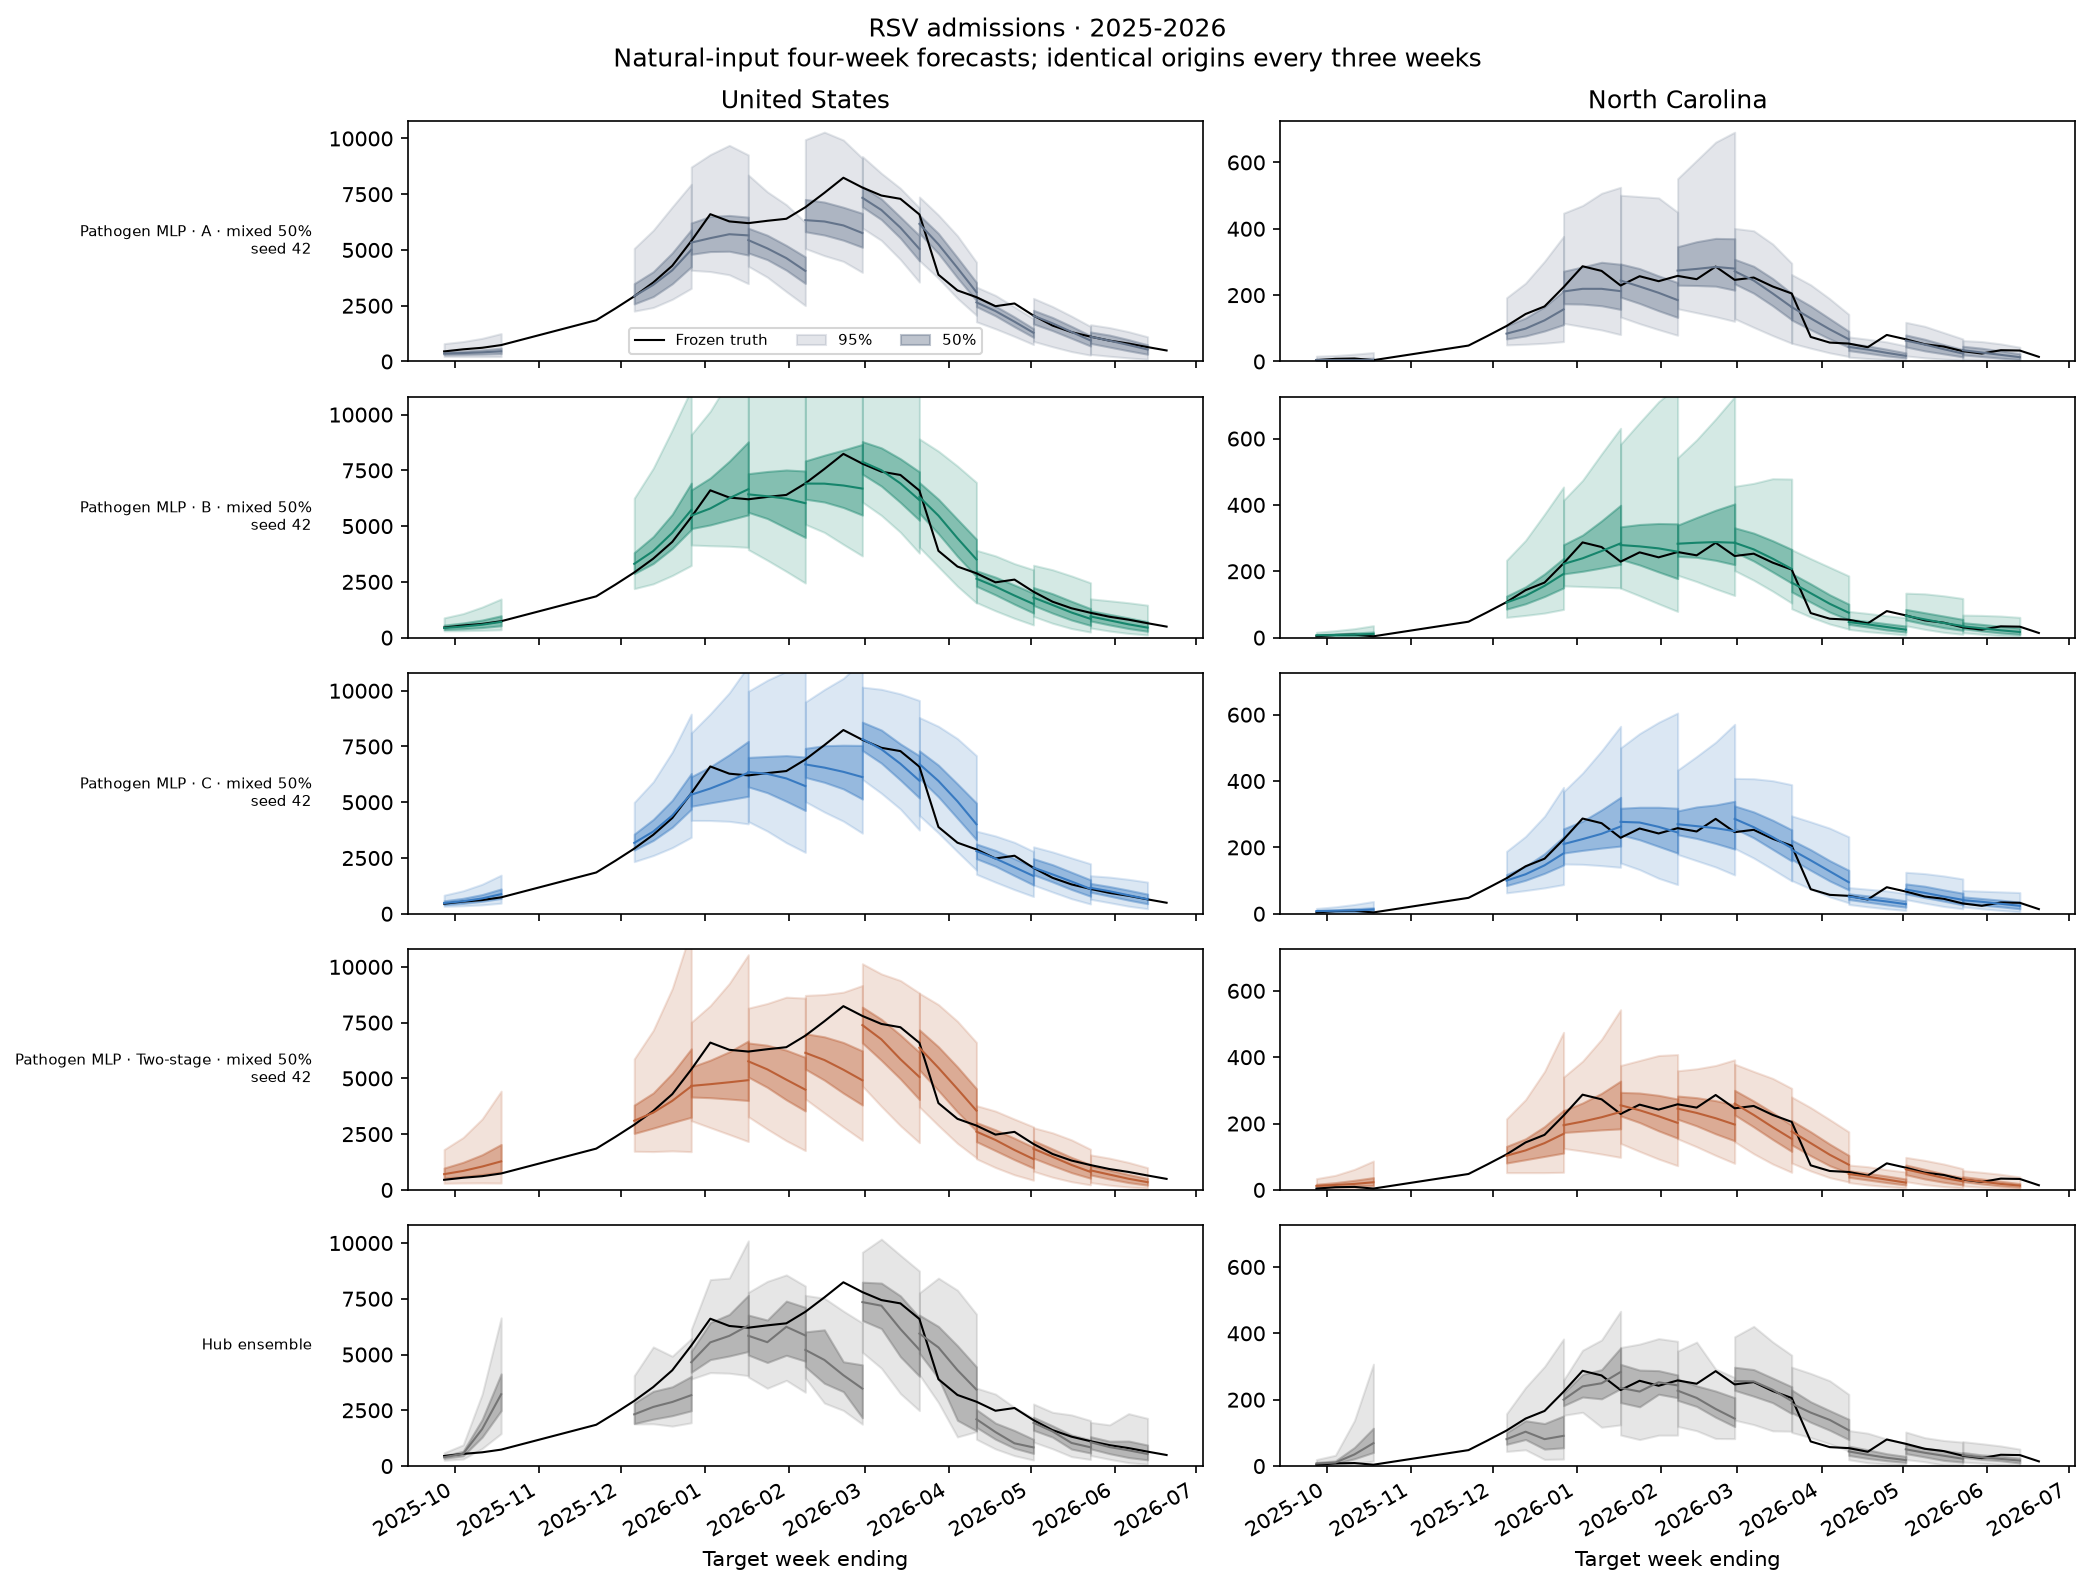
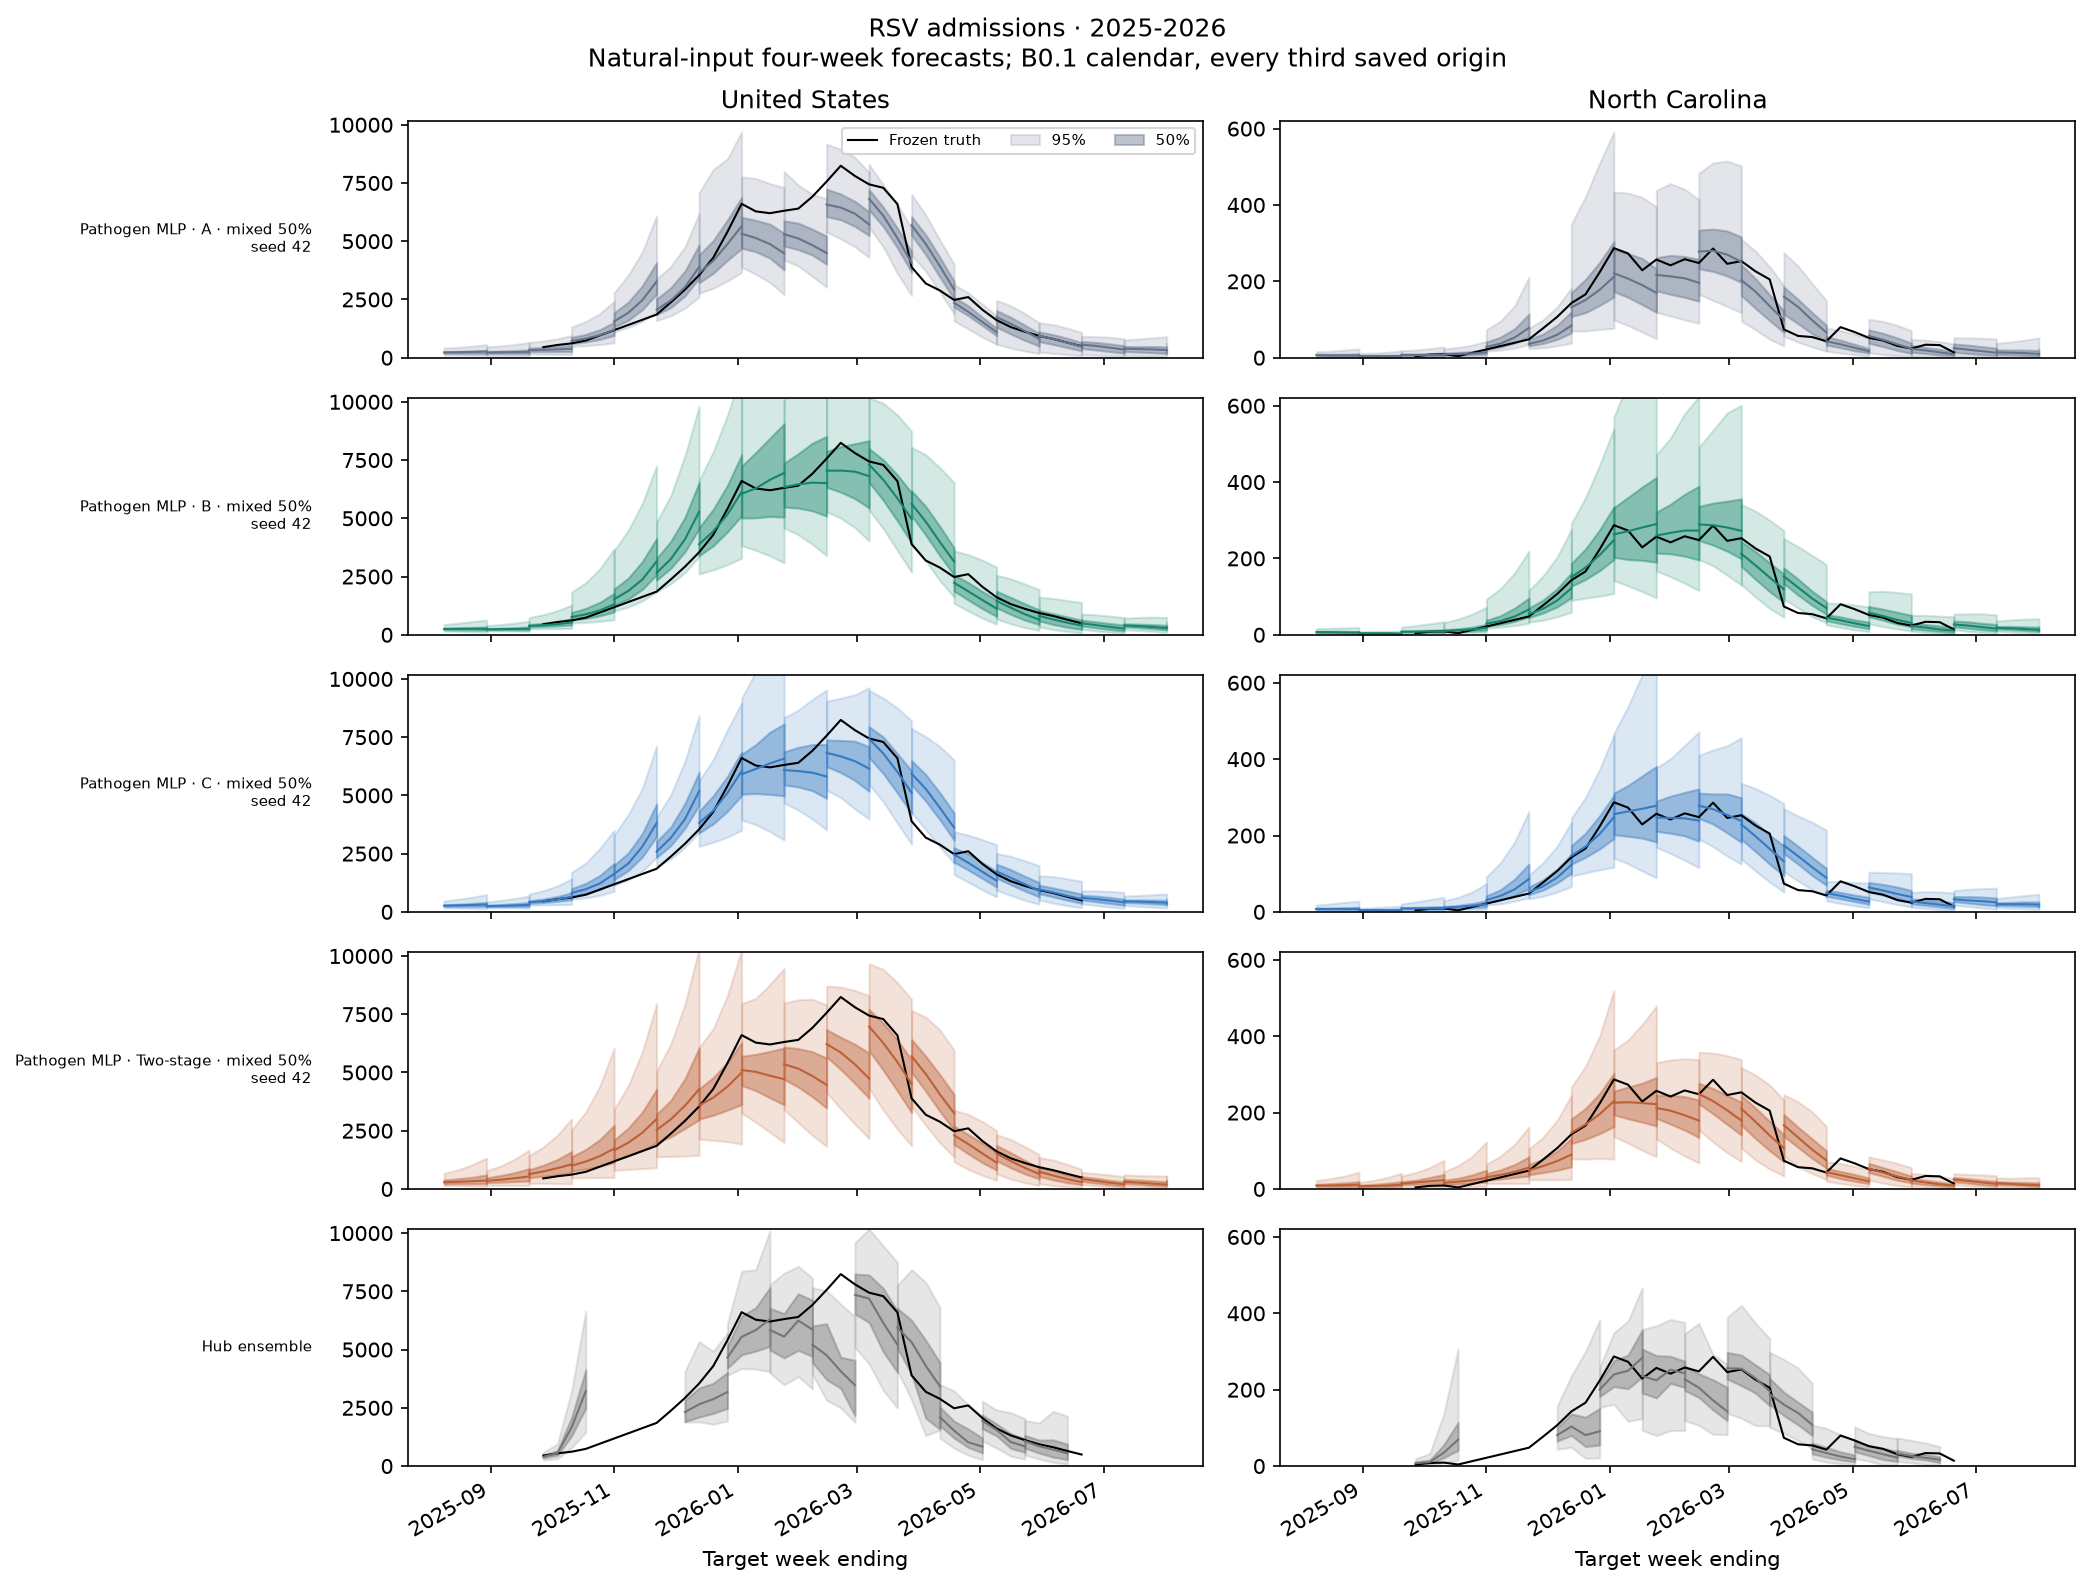
Align B1 fan dates with B0.1 and standardize report ordering

diff --git a/scripts/plot_b1_overnight.py b/scripts/plot_b1_overnight.py
@@ -15,10 +15,10 @@ import matplotlib.pyplot as plt
 import numpy as np
 import pandas as pd
 
-from tapestry.evaluation.hubs import export, KEY
+from tapestry.evaluation.hubs import export
 from tapestry.evaluation.totals import rank, frozen_cases, season_scores, run_scores
 from tapestry.models.manager import read_jobs, attempts
-from plot_b01_crosses import NAMES, SHORT
+from plot_b01_crosses import NAMES, SHORT, case_order
 
 ARCH = {'target_mlp': 'Target MLP', 'pathogen_mlp': 'Pathogen MLP',
         'target_multiscale': 'Target convolution', 'joint_mlp': 'Joint MLP'}
@@ -133,7 +133,7 @@ def snapshot(root):
 def fans(chosen, paths, frozen, output, prefix):
     frames = {name: export(paths[(name, seed)]) for name, seed in chosen}
     files = []
-    for case in frozen_cases(frozen):
+    for case in sorted(frozen_cases(frozen), key=case_order):
         target, season = case['target'], case['season']
         folder = frozen / case['directory']
         units = pd.read_parquet(folder / 'units.parquet')
@@ -142,19 +142,19 @@ def fans(chosen, paths, frozen, output, prefix):
         series = [(f'{label(name)}\nseed {seed}', frames[name][(season, target)], COLORS[PIPE[name.split('__')[1]]]) for name, seed in chosen]
         series.append(('Hub ensemble', ensemble, '#757575'))
         fig, axes = plt.subplots(len(series), 2, figsize=(14, 2.15 * len(series)), sharex=True, sharey='col', squeeze=False)
-        support = units[KEY].drop_duplicates()
         for column, loc in enumerate(['US', '37']):
             truth = units[units.location.eq(loc)][['target_end_date', 'observed']].drop_duplicates().sort_values('target_end_date')
-            # Use identical origins for every row; never draw outside frozen support.
-            origins = sorted(support[support.location.eq(loc)].reference_date.unique())[::3]
             for row, (name, frame, color) in enumerate(series):
                 ax = axes[row, column]
-                data = frame.merge(support, on=KEY, how='inner', validate='one_to_one')
-                data = data[data.location.eq(loc)]
+                # Match B0.1's full saved seasonal calendar and every-third-origin rule.
+                # Only the ranking, not these illustrative fans, is restricted to Hub support.
+                data = frame[frame.location.eq(loc)]
+                origins = sorted(data.reference_date.unique())[::3]
                 ax.plot(pd.to_datetime(truth.target_end_date), truth.observed, color='black', lw=1, label='Frozen truth')
                 for i, origin in enumerate(origins):
-                    f = data[data.reference_date.eq(origin)].sort_values('horizon')
-                    x = pd.to_datetime(f.target_end_date)
+                    f = (data[data.reference_date.eq(origin)].sort_values('horizon')
+                         .set_index('horizon').reindex(range(4)))
+                    x = pd.date_range(origin, periods=4, freq='7D')
                     ax.fill_between(x, f['q0.025'], f['q0.975'], color=color, alpha=.18, label='95%' if i == 0 else None)
                     ax.fill_between(x, f['q0.25'], f['q0.75'], color=color, alpha=.42, label='50%' if i == 0 else None)
                     ax.plot(x, f['q0.5'], color=color, lw=1)
@@ -165,7 +165,7 @@ def fans(chosen, paths, frozen, output, prefix):
                     ax.set_title('United States' if loc == 'US' else 'North Carolina')
             axes[-1, column].set_xlabel('Target week ending')
         axes[0, 0].legend(fontsize=7, ncol=3)
-        fig.suptitle(f'{NAMES[target]} · {season}\nNatural-input four-week forecasts; identical origins every three weeks', fontsize=12)
+        fig.suptitle(f'{NAMES[target]} · {season}\nNatural-input four-week forecasts; B0.1 calendar, every third saved origin', fontsize=12)
         fig.autofmt_xdate()
         name = f'{prefix}-{SHORT[target]}-{season}.png'
         save(fig, output, name)
@@ -297,6 +297,8 @@ def main():
     save(fig, figures, 'coverage.png')
 
     target_table = seasons[seasons.geography.eq('all')].groupby(['name', 'season', 'target']).wis_ratio.mean().unstack(['season', 'target'])
+    columns = sorted(target_table.columns, key=lambda pair: case_order({'season': pair[0], 'target': pair[1]}))
+    target_table = target_table.reindex(columns=columns)
     target_table.to_csv(out / 'target-season-scores.csv')
     fig, ax = plt.subplots(figsize=(12, 5))
     data = target_table.reindex(selected)
@@ -482,10 +484,20 @@ architectures. Joint MLP already had cap 300, so its repeats are controls rather
 
 ## Fan plots
 
-Natural-input four-week forecasts at every third origin, restricted to identical frozen Hub
-support, for the United States and North Carolina. Black is frozen truth; colored bands are
+Natural-input four-week forecasts at every third saved origin, using the same full seasonal
+calendar and plotting rule as [B0.1](../b0-1-crosses/index.md#fan-plots), for the United States
+and North Carolina. Black is frozen truth; colored bands are
 50% and 95% intervals, with median lines. Y scales match across models within each location.
 These examples illustrate forecasts and do not replace the all-location scoring.
+Forecasts extend beyond the scored Hub window; truth and ensemble remain limited to their
+available frozen dates. No missing forecast or truth value is filled in. The ranking still
+uses only identical frozen Hub support. Each row samples its own available origins, as in B0.1.
+
+The standard order throughout the target/season panels is **influenza → COVID-19 → RSV**,
+then **admissions → ED visits**, then **oldest → newest season**. Saved model dates span
+September 9, 2023–July 27, 2024; August 10, 2024–July 26, 2025; and
+August 9, 2025–August 1, 2026, respectively. The final fan can have fewer than four
+available horizons at the held-out season boundary.
 
 ### Leading configurations
 
@@ -521,6 +533,7 @@ This regenerates the snapshot and figures from completed runs; it launches no tr
 
 - 2026-09-17: added the original overnight screen report while the separate 300-epoch experiment was queued. Reused saved forecast totals, the shared scientific aggregation and B1 forecast export. Explicitly separated forecast performance from nowcast accuracy and marked incomplete seed sets.
 - 2026-09-17: expanded the page to all 40 ranked configurations and a numeric target/season breakdown of the leader and matched pathogen formulations; clarified that training without artificial masking remains competitive.
+- 2026-09-17: matched fan dates to B0.1's full saved seasonal calendar; retained frozen support for scores and truth. Standardized disease, target, and chronological season order in fans, target/season tables, and the heatmap.
 '''
     body = body.replace('## Masking around B', interpretation(configs, contrasts, stress_table, coverage) + '## Masking around B')
     (out / 'index.md').write_text(body)

diff --git a/scripts/plot_b01_crosses.py b/scripts/plot_b01_crosses.py
@@ -35,6 +35,11 @@ FAMILY = {'local_mlp': '#4f81bd', 'spatial_conv': '#9bbb59', 'pathogen_multiscal
 ENSEMBLE = '#7f7f7f'
 
 
+def case_order(case):
+    """Influenza/COVID/RSV, admissions/ED, then chronological season."""
+    return list(NAMES).index(case['target']), case['season']
+
+
 def family(name):
     """Reference family of a configuration; the four conv controls share one colour."""
     head = name.split('__')[0]
@@ -349,7 +354,7 @@ def fan_figures(ranking, configs, runs, frozen, output):
         # The median seed is the honest representative of a configuration.
         chosen.append((name, int(part.iloc[len(part) // 2].seed)))
     exports = {(name, seed): export_b0(jobs[(ids[name], seed)]) for name, seed in chosen}
-    for case in frozen_cases(frozen):
+    for case in sorted(frozen_cases(frozen), key=case_order):
         target, season = case['target'], case['season']
         folder = frozen / case['directory']
         units = pd.read_parquet(folder / 'units.parquet')

diff --git a/docs/results/b1-overnight/index.md b/docs/results/b1-overnight/index.md
@@ -6,7 +6,7 @@ This page reports the original overnight screen, **not the new 300-epoch experim
 
 ## Snapshot and experiment
 
-Generated 2026-09-17T20:34-04:00. **120/120 seed runs complete**; status: {'complete': 120}.
+Generated 2026-09-17T21:23-04:00. **120/120 seed runs complete**; status: {'complete': 120}.
 The page is a snapshot, not a live dashboard. Incomplete averages show their seed count;
 paired contrasts use only seeds completed on both sides. No missing run receives an imputed score.
 
@@ -217,12 +217,12 @@ to the combined score: seasons receive equal weight and targets are weighted wit
 | Season | Target | Overall leader | Pathogen B | Pathogen C | Pathogen two-stage |
 |---|---|---|---|---|---|
 | 2023-2024 | Influenza admissions | 0.968 | 0.991 | 1.023 | 1.215 |
-| 2024-2025 | COVID-19 admissions | 0.940 | 1.016 | 0.973 | 1.175 |
 | 2024-2025 | Influenza admissions | 0.847 | 0.847 | 0.841 | 0.826 |
-| 2025-2026 | COVID-19 admissions | 0.943 | 0.905 | 0.950 | 1.200 |
-| 2025-2026 | COVID-19 ED visits | 1.032 | 0.964 | 0.992 | 1.532 |
 | 2025-2026 | Influenza admissions | 0.944 | 1.006 | 0.945 | 1.153 |
 | 2025-2026 | Influenza ED visits | 0.915 | 0.978 | 0.953 | 1.049 |
+| 2024-2025 | COVID-19 admissions | 0.940 | 1.016 | 0.973 | 1.175 |
+| 2025-2026 | COVID-19 admissions | 0.943 | 0.905 | 0.950 | 1.200 |
+| 2025-2026 | COVID-19 ED visits | 1.032 | 0.964 | 0.992 | 1.532 |
 | 2025-2026 | RSV admissions | 1.044 | 0.895 | 0.907 | 0.880 |
 | 2025-2026 | RSV ED visits | 0.787 | 0.842 | 0.911 | 0.810 |
 
@@ -263,10 +263,20 @@ architectures. Joint MLP already had cap 300, so its repeats are controls rather
 
 ## Fan plots
 
-Natural-input four-week forecasts at every third origin, restricted to identical frozen Hub
-support, for the United States and North Carolina. Black is frozen truth; colored bands are
+Natural-input four-week forecasts at every third saved origin, using the same full seasonal
+calendar and plotting rule as [B0.1](../b0-1-crosses/index.md#fan-plots), for the United States
+and North Carolina. Black is frozen truth; colored bands are
 50% and 95% intervals, with median lines. Y scales match across models within each location.
 These examples illustrate forecasts and do not replace the all-location scoring.
+Forecasts extend beyond the scored Hub window; truth and ensemble remain limited to their
+available frozen dates. No missing forecast or truth value is filled in. The ranking still
+uses only identical frozen Hub support. Each row samples its own available origins, as in B0.1.
+
+The standard order throughout the target/season panels is **influenza → COVID-19 → RSV**,
+then **admissions → ED visits**, then **oldest → newest season**. Saved model dates span
+September 9, 2023–July 27, 2024; August 10, 2024–July 26, 2025; and
+August 9, 2025–August 1, 2026, respectively. The final fan can have fewer than four
+available horizons at the held-out season boundary.
 
 ### Leading configurations
 
@@ -336,3 +346,4 @@ This regenerates the snapshot and figures from completed runs; it launches no tr
 
 - 2026-09-17: added the original overnight screen report while the separate 300-epoch experiment was queued. Reused saved forecast totals, the shared scientific aggregation and B1 forecast export. Explicitly separated forecast performance from nowcast accuracy and marked incomplete seed sets.
 - 2026-09-17: expanded the page to all 40 ranked configurations and a numeric target/season breakdown of the leader and matched pathogen formulations; clarified that training without artificial masking remains competitive.
+- 2026-09-17: matched fan dates to B0.1's full saved seasonal calendar; retained frozen support for scores and truth. Standardized disease, target, and chronological season order in fans, target/season tables, and the heatmap.

diff --git a/docs/results/b0-1-crosses/index.md b/docs/results/b0-1-crosses/index.md
@@ -142,21 +142,23 @@ Four-week forecasts at every third origin for the three leading configurations,
 each at its median-scoring seed, and the hub ensemble. Locations are the United
 States and North Carolina.
 
-![Influenza admissions, 2024-2025](figures/fans-flu_hosp-2024-2025.png)
+Order: influenza → COVID-19 → RSV; admissions → ED visits; oldest → newest season.
 
 ![Influenza admissions, 2023-2024](figures/fans-flu_hosp-2023-2024.png)
 
+![Influenza admissions, 2024-2025](figures/fans-flu_hosp-2024-2025.png)
+
 ![Influenza admissions, 2025-2026](figures/fans-flu_hosp-2025-2026.png)
+
+![Influenza ED visits, 2025-2026](figures/fans-flu_prop_ed_visits-2025-2026.png)
 
 ![COVID-19 admissions, 2024-2025](figures/fans-covid_hosp-2024-2025.png)
 
 ![COVID-19 admissions, 2025-2026](figures/fans-covid_hosp-2025-2026.png)
 
-![RSV admissions, 2025-2026](figures/fans-rsv_hosp-2025-2026.png)
-
-![Influenza ED visits, 2025-2026](figures/fans-flu_prop_ed_visits-2025-2026.png)
-
 ![COVID-19 ED visits, 2025-2026](figures/fans-covid_prop_ed_visits-2025-2026.png)
+
+![RSV admissions, 2025-2026](figures/fans-rsv_hosp-2025-2026.png)
 
 ![RSV ED visits, 2025-2026](figures/fans-rsv_prop_ed_visits-2025-2026.png)
 
@@ -205,5 +207,6 @@ calibration table behind the pairplot is saved alongside this page as
 
 ## Log
 
+- 2026-09-17: standardized fan order with B1: influenza, COVID-19, RSV; admissions then ED; chronological seasons. B1 now uses this page's full saved-season fan calendar.
 - 2026-09-16: Shortened the report. Removed causal explanations not established
   by the comparisons, seed-SD decision thresholds, and repeated recommendations.
